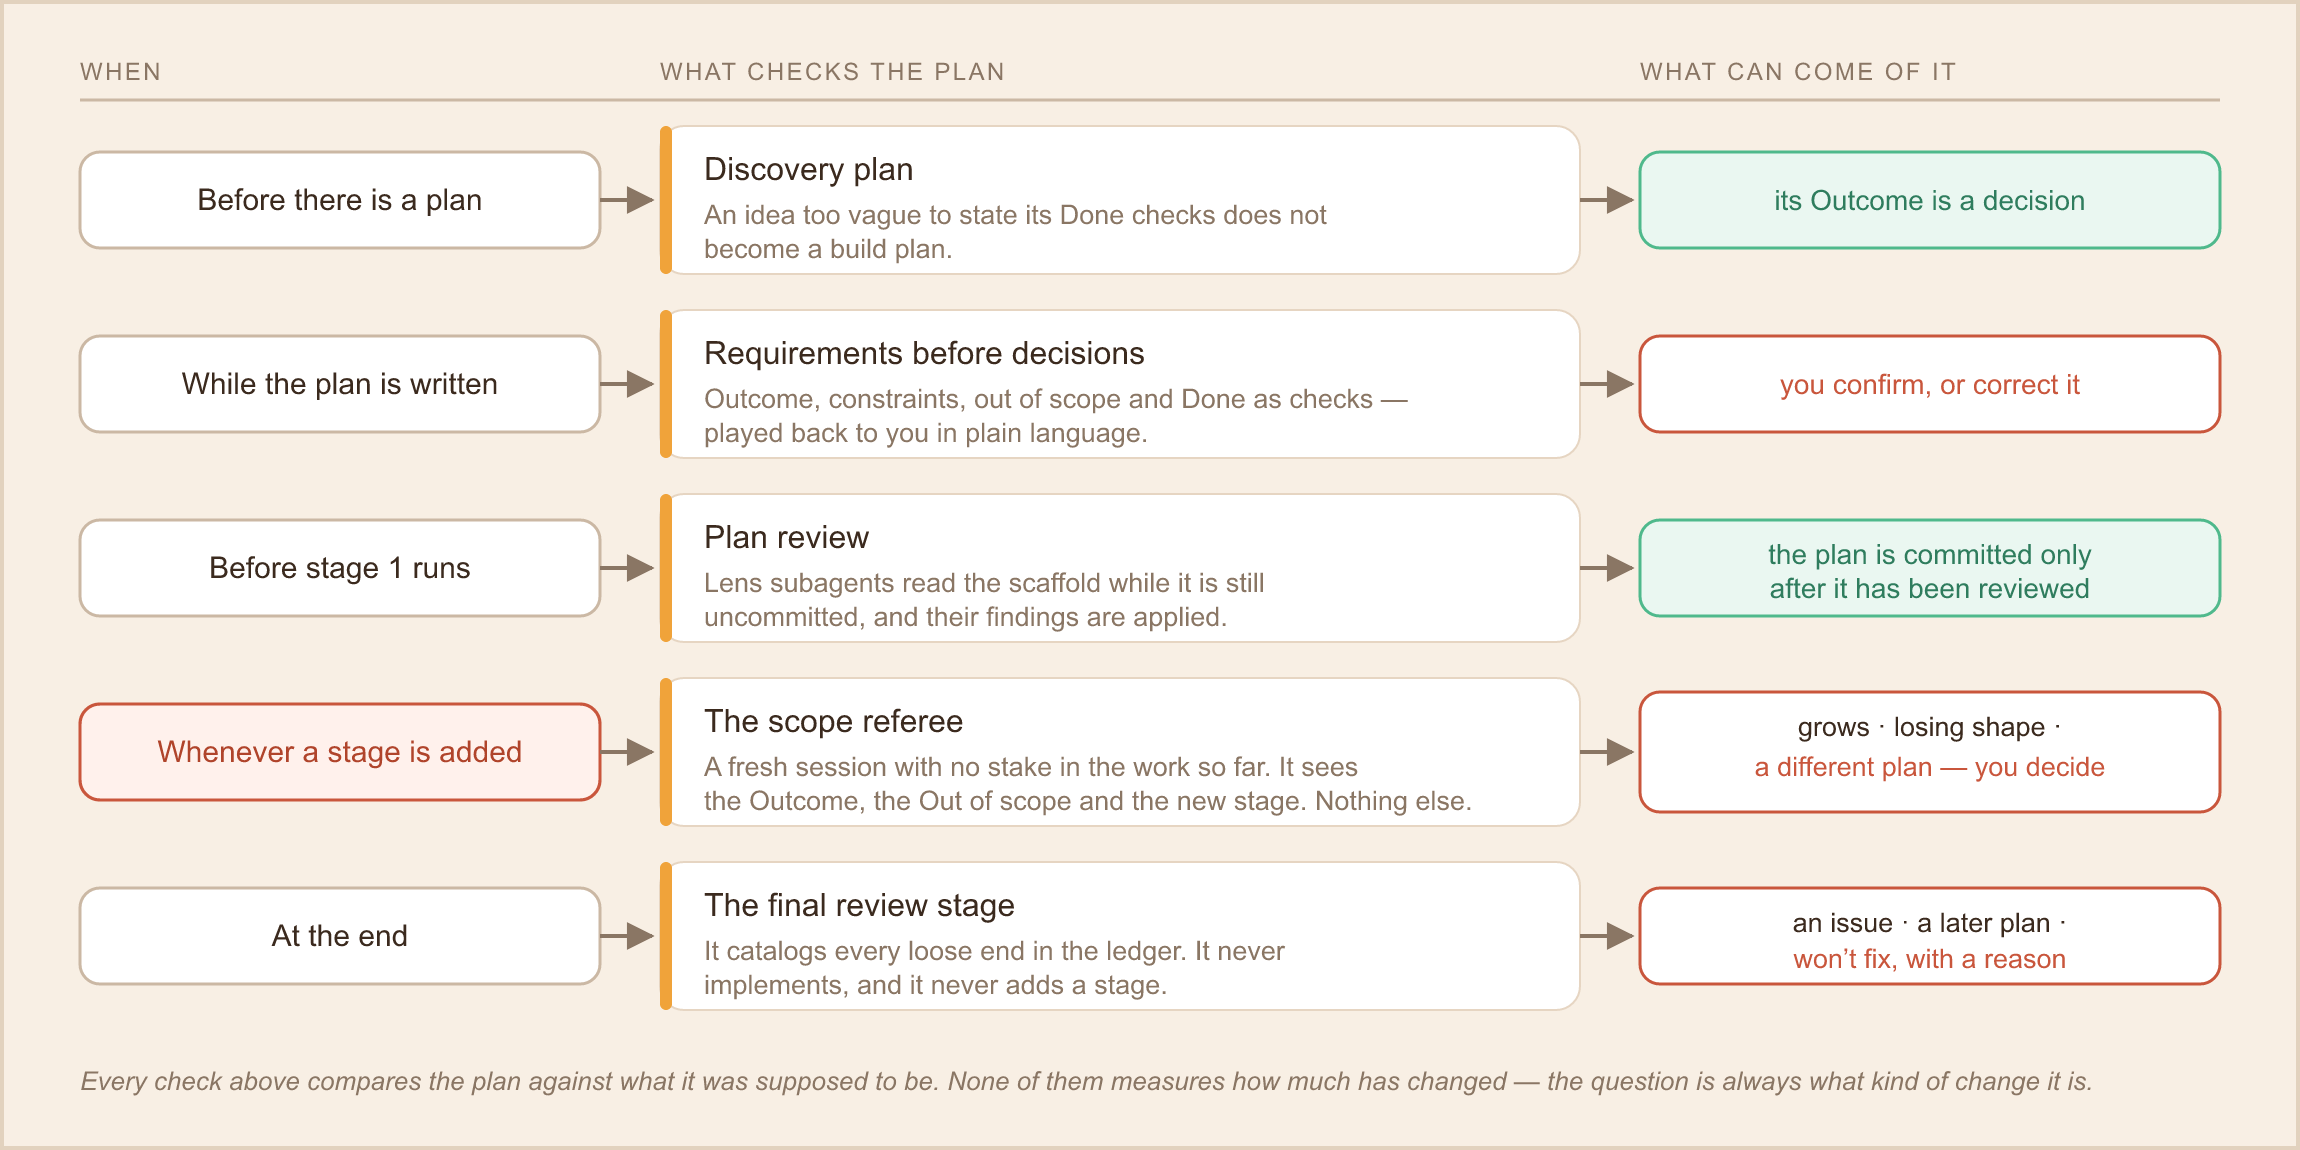
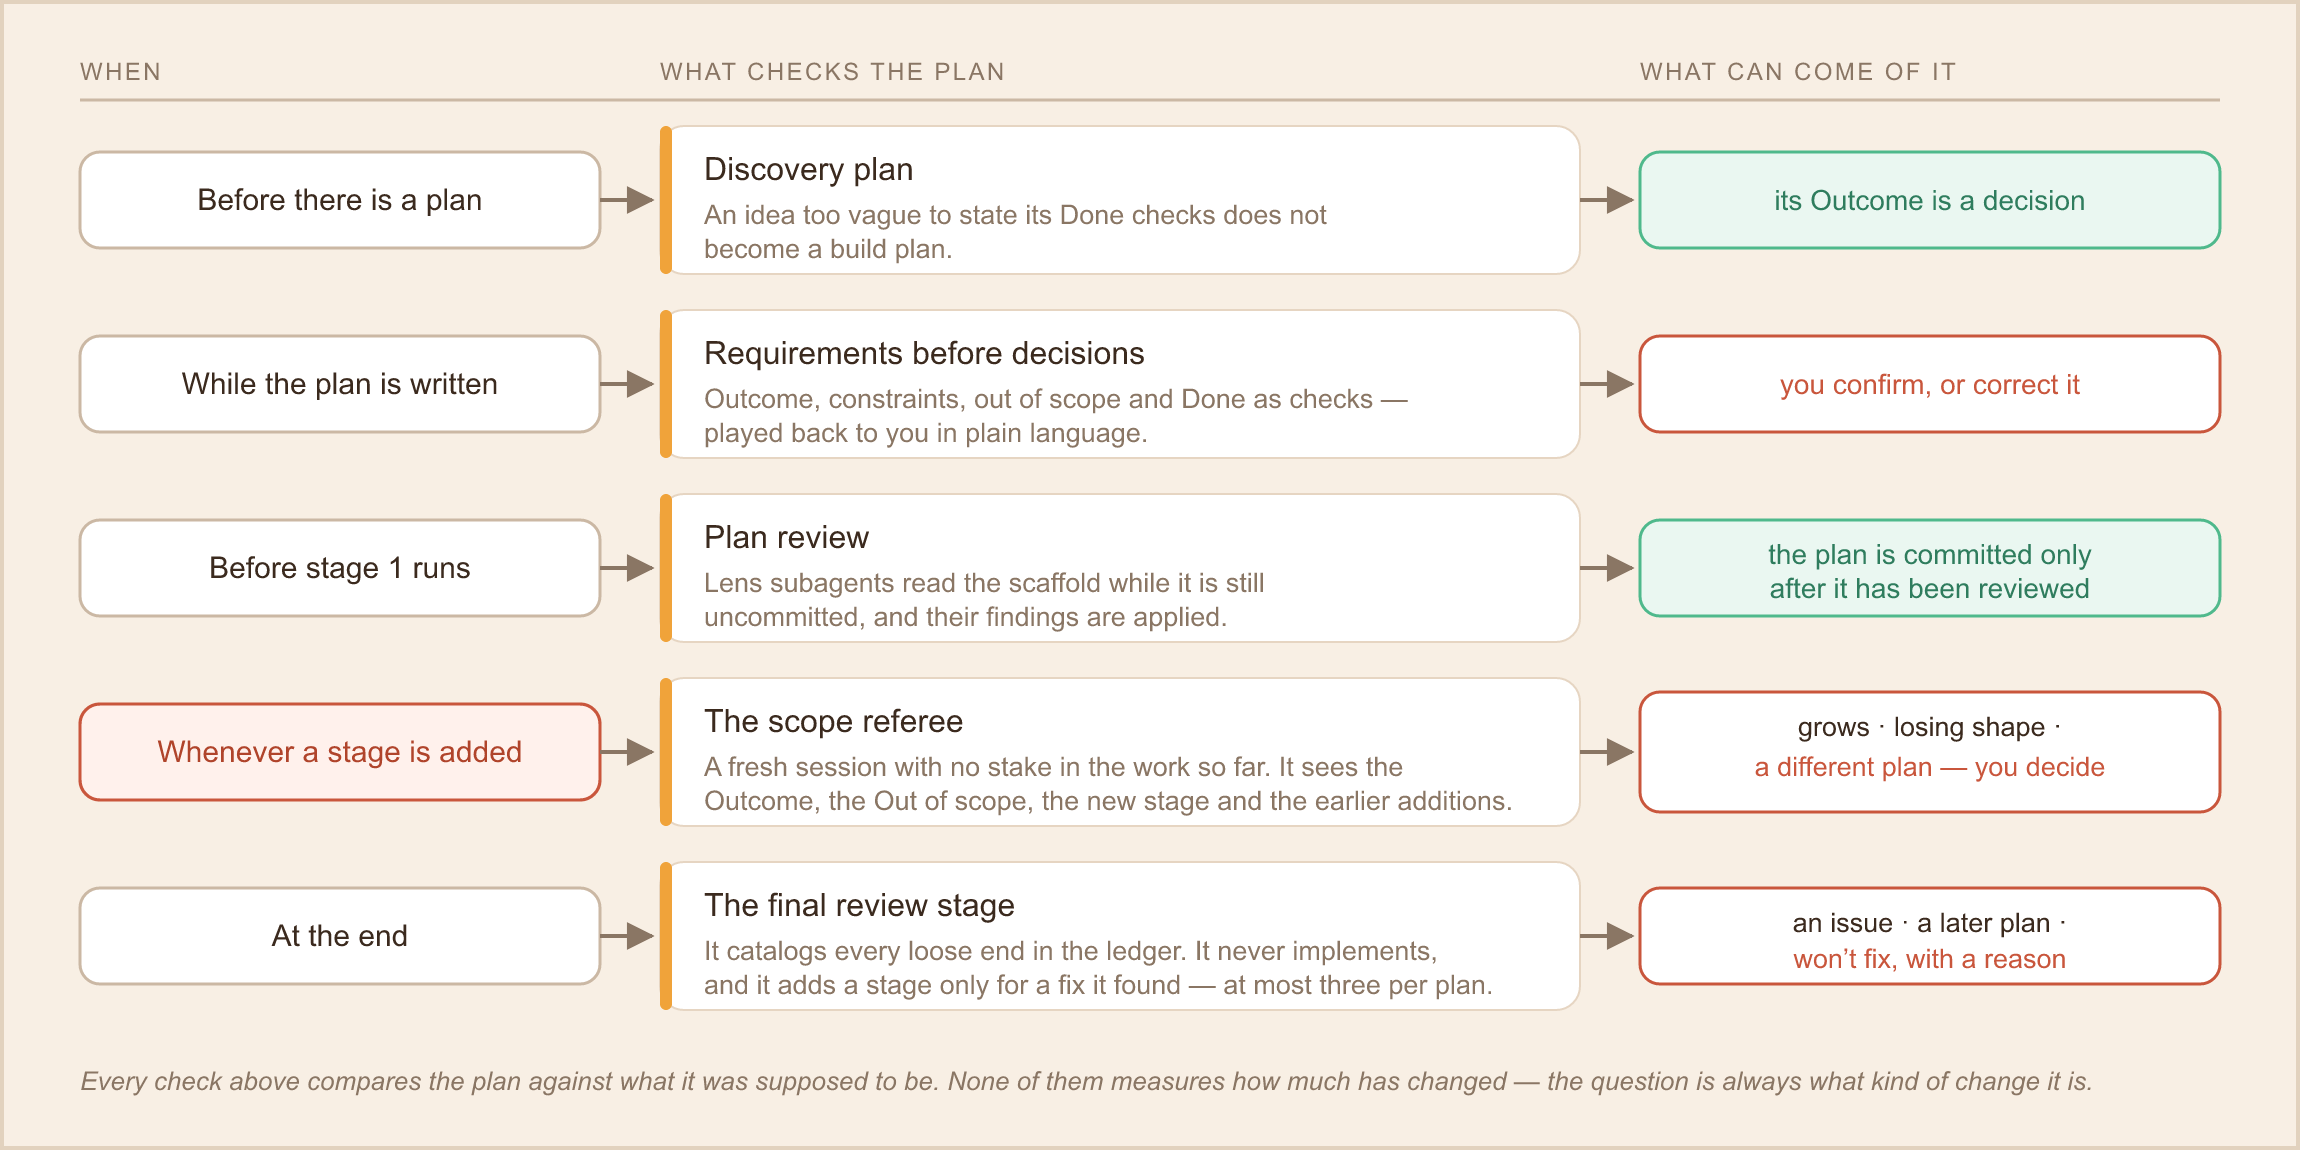
docs: two overstated claims in the drift section
- The scope referee also sees the stages added before this one; the diagram
  said "Nothing else", which was wrong, and why.md left them out too.
- The final review stage does add a stage for a fix it finds, capped at
  three per plan. "It never adds a stage" dropped the exception that the
  Mermaid block two pages away states.

Refs #230

Changed region(s): [[0.3087, 0.6696, 0.6483, 0.7304], [0.3087, 0.8217, 0.6483, 0.8826]]

diff --git a/docs/why.md b/docs/why.md
@@ -91,10 +91,10 @@ Two things are worth drawing out of that picture:
   staying the same project is fine; a small step that makes it a different
   project is not.
 - **The scope referee has no stake in the work.** It is a fresh session that
-  sees the plan's Outcome, its Out of scope and the new stage — and nothing
-  of the session asking for the stage, including how much effort has already
-  gone in. That is the whole reason it can say *different plan* when the
-  session that wants the stage cannot.
+  sees the plan's Outcome, its Out of scope, the new stage and the stages
+  added before it — and nothing of the session asking for the stage,
+  including how much effort has already gone in. That is the whole reason it
+  can say *different plan* when the session that wants the stage cannot.
 
 The earliest check is the cheapest one: an idea too vague to state its Done
 checks never becomes a build plan at all. It becomes a **discovery plan**
